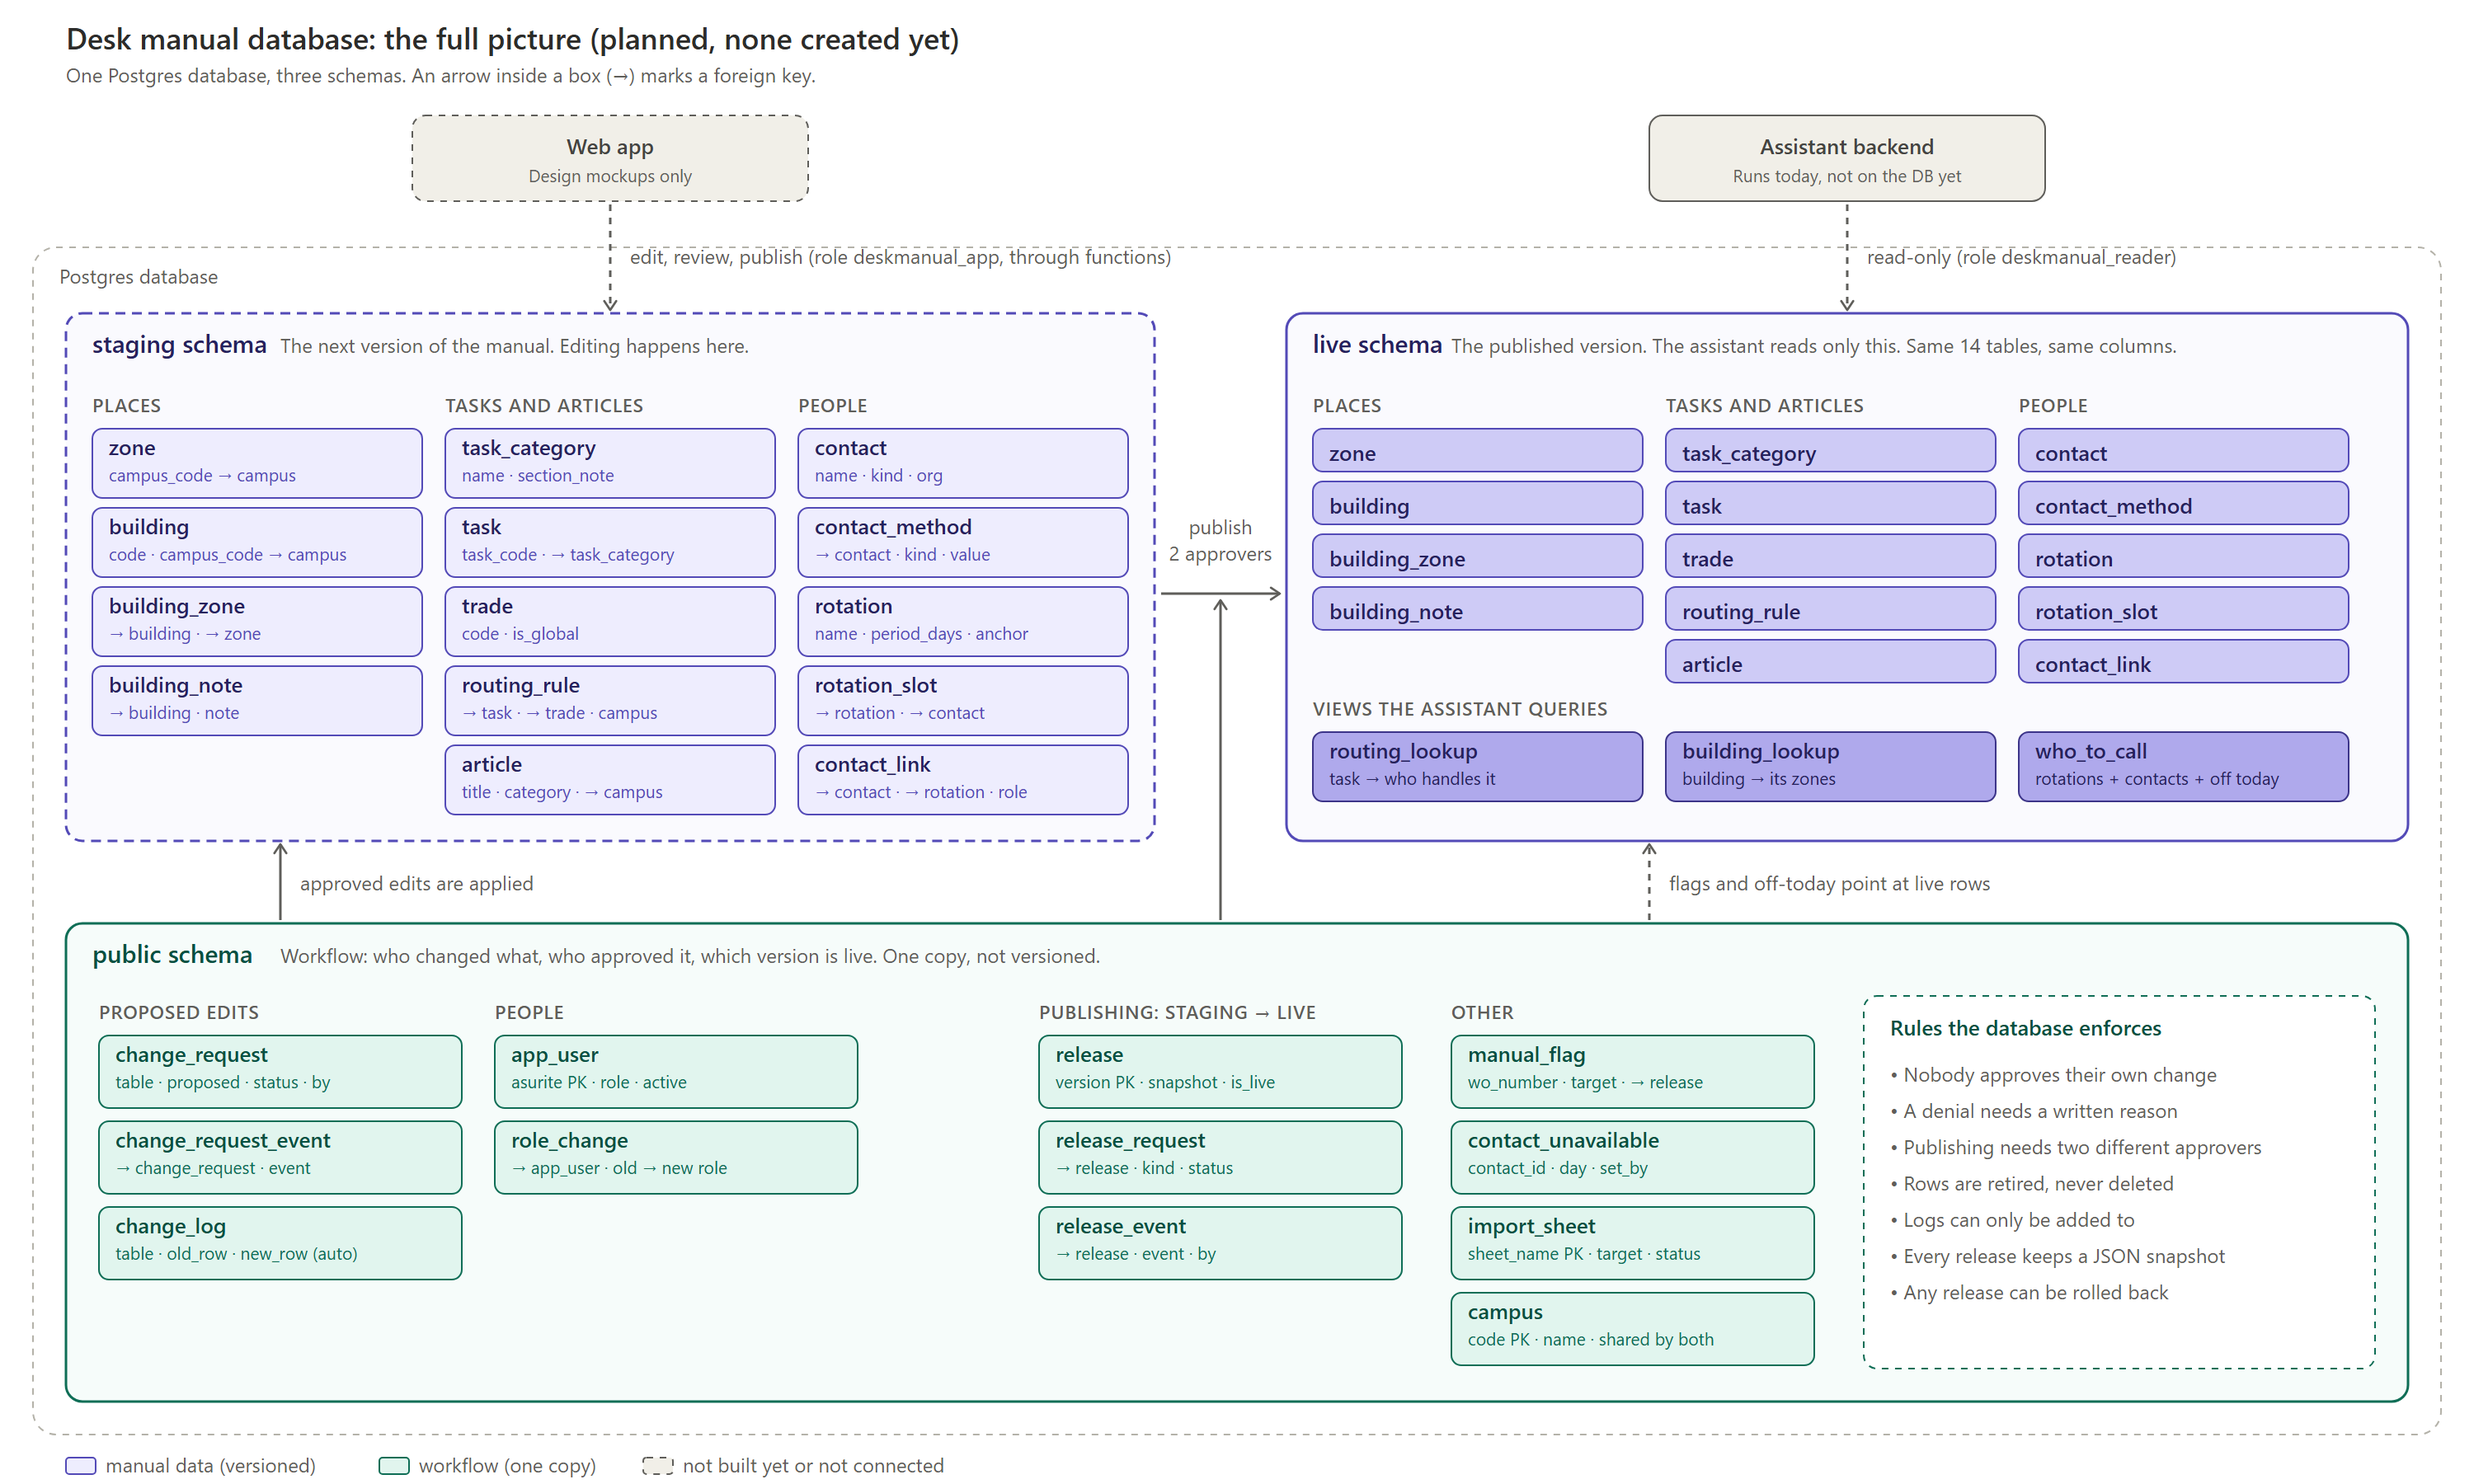
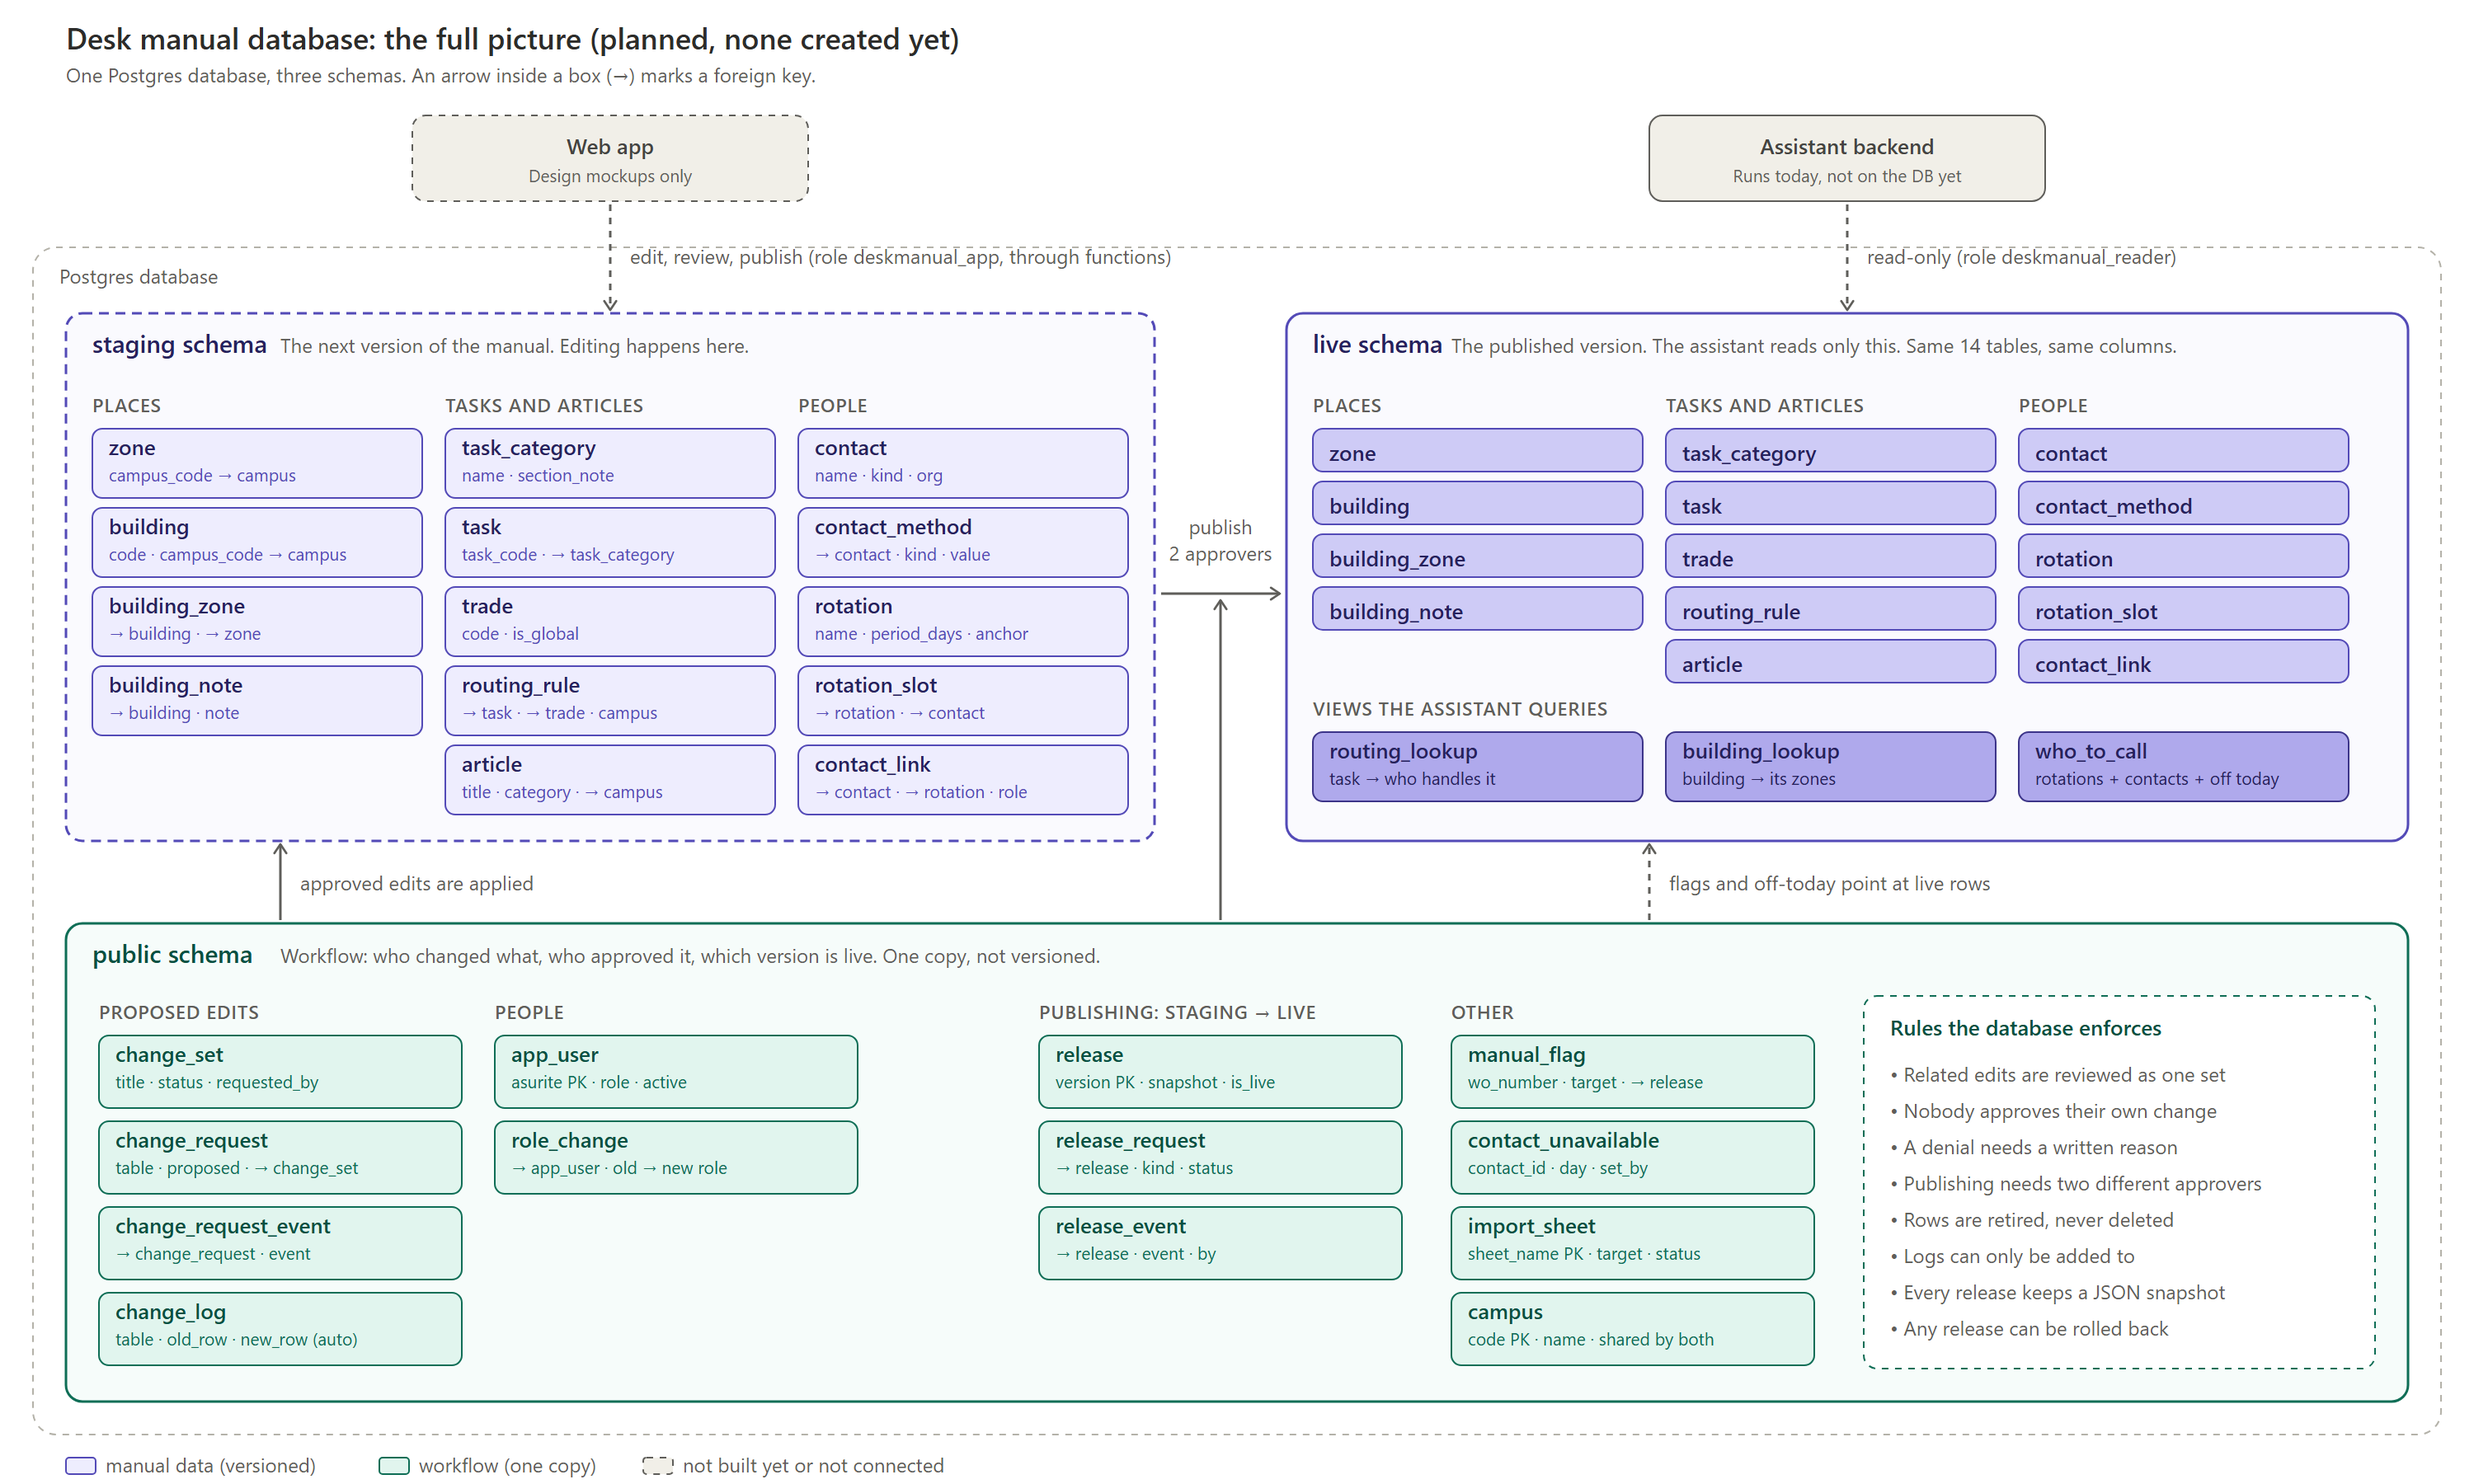
Redraw diagrams to include change sets

diff --git a/docs/architecture/src/05-erd-full.html b/docs/architecture/src/05-erd-full.html
@@ -29,6 +29,8 @@ mermaid.render('erd', `erDiagram
   app_user ||--o{ release : publishes
   app_user ||--o{ manual_flag : raises
   app_user ||--o{ contact_unavailable : sets
+  app_user ||--o{ change_set : files
+  change_set |o--o{ change_request : groups
   change_request ||--o{ change_request_event : logs
   release ||--o{ release_request : targets
   release ||--o{ release_event : records
@@ -131,8 +133,17 @@ mermaid.render('erd', `erDiagram
     text old_role
     text new_role
   }
+  change_set {
+    bigint id PK
+    text title
+    text status
+    text requested_by FK
+    text reviewed_by FK
+  }
   change_request {
     bigint id PK
+    bigint set_id FK
+    int set_position
     text table_name
     jsonb row_key
     text action
@@ -197,6 +208,6 @@ mermaid.render('erd', `erDiagram
   classDef manual fill:#EEEDFE,stroke:#534AB7,color:#26215C
   classDef flow fill:#E1F5EE,stroke:#0F6E56,color:#04342C
   class zone,building,building_zone,building_note,trade,task_category,task,routing_rule,article,contact,contact_method,rotation,rotation_slot,contact_link manual
-  class campus,app_user,role_change,change_request,change_request_event,change_log,release,release_request,release_event,manual_flag,contact_unavailable,import_sheet flow
+  class campus,app_user,role_change,change_set,change_request,change_request_event,change_log,release,release_request,release_event,manual_flag,contact_unavailable,import_sheet flow
 `).then(function(r){document.getElementById('out').innerHTML=r.svg;document.title=document.getElementById('wrap').offsetWidth+'x'+document.getElementById('wrap').offsetHeight;}).catch(function(e){document.title='ERROR '+e.message;});
 </script></body></html>

diff --git a/docs/architecture/src/04-erd-workflow-tables.html b/docs/architecture/src/04-erd-workflow-tables.html
@@ -2,7 +2,7 @@
 <html lang="en"><head><meta charset="utf-8"><title>Workflow tables ERD</title>
 <style>body{margin:0;background:#fff;font-family:"Segoe UI",Arial,sans-serif;color:#2C2C2A}#wrap{padding:20px 24px;display:inline-block}h1{font-size:16px;font-weight:600;margin:0 0 4px}p{font-size:12px;color:#5F5E5A;margin:0 0 12px}</style></head>
 <body><div id="wrap"><h1>Desk manual database: workflow tables</h1>
-<p>Users, change requests, releases and flags (public schema). change_log, contact_unavailable and import_sheet link loosely and are not drawn.</p>
+<p>Users, change sets and requests, releases and flags (public schema). A change set groups related edits that are reviewed together. change_log, contact_unavailable and import_sheet link loosely and are not drawn.</p>
 <div id="out"></div></div>
 <script src="https://cdn.jsdelivr.net/npm/mermaid@11.4.0/dist/mermaid.min.js"></script>
 <script>
@@ -12,6 +12,8 @@ mermaid.render('erd', `erDiagram
   app_user ||--o{ change_request : submits
   app_user ||--o{ release : publishes
   app_user ||--o{ manual_flag : raises
+  app_user ||--o{ change_set : files
+  change_set |o--o{ change_request : groups
   change_request ||--o{ change_request_event : logs
   release ||--o{ release_request : targets
   release ||--o{ release_event : records
@@ -29,8 +31,17 @@ mermaid.render('erd', `erDiagram
     text new_role
     text changed_by FK
   }
+  change_set {
+    bigint id PK
+    text title
+    text status
+    text requested_by FK
+    text reviewed_by FK
+  }
   change_request {
     bigint id PK
+    bigint set_id FK
+    int set_position
     text table_name
     jsonb row_key
     text action

diff --git a/docs/README.md b/docs/README.md
@@ -9,7 +9,7 @@ Diagrams and working notes for the WebTMA assistant. Nothing here contains keys,
 | `architecture/01-architecture-today.png` | What runs today on `main`: Chrome extension, local FastAPI backend (Layer 1 and Layer 2), Create AI and Supabase |
 | `architecture/02-architecture-planned-database.png` | The planned desk manual database and web app. Not built or connected yet |
 | `architecture/03-erd-manual-tables.png` | Relational diagram of the manual data tables (zones, buildings, tasks, routing rules, articles, contacts) |
-| `architecture/04-erd-workflow-tables.png` | Relational diagram of the workflow tables (users, change requests, releases, flags) |
+| `architecture/04-erd-workflow-tables.png` | Relational diagram of the workflow tables (users, change sets and requests, releases, flags) |
 | `architecture/05-erd-full.png` | One relational diagram with all 26 tables and their foreign keys (solid lines), plus the loose links by name or id (dotted). Purple is manual data, green is workflow. Very wide (about 4,450 px at 1x), so zoom in. Source is `src/05-erd-full.html` |
 | `architecture/05-full-database.png` | The whole database in one picture: the `staging`, `live` and `public` schemas, every table, who reads and writes what, and the rules the database enforces. Source is `05-full-database.svg` |
 
